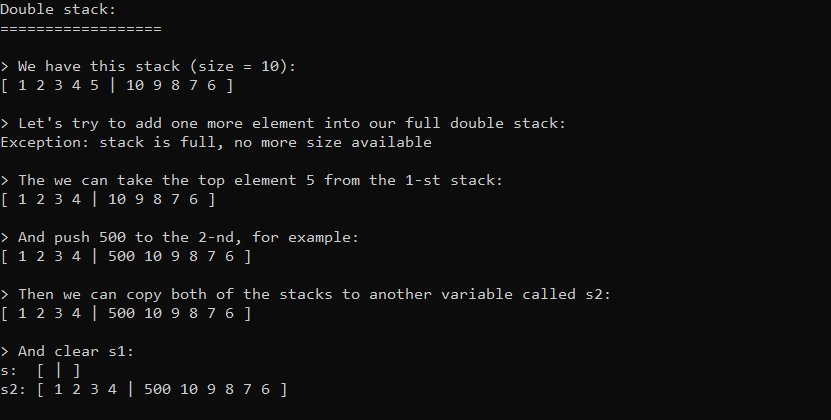
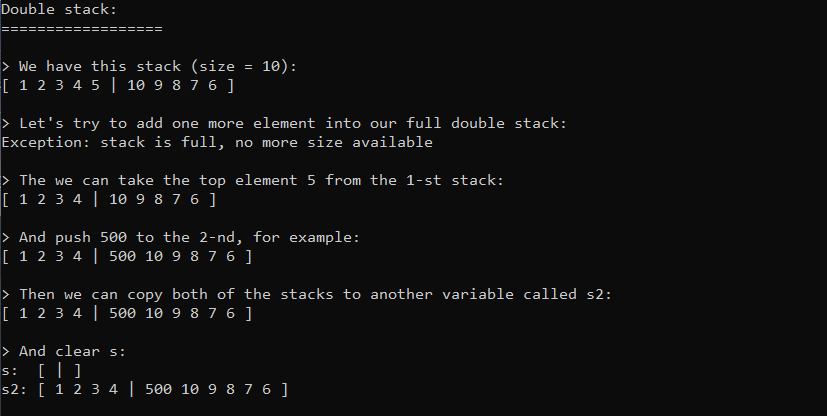
s1 changed to s

diff --git a/double-stack/Main.cpp b/double-stack/Main.cpp
@@ -42,7 +42,7 @@ int main()
 	TDoubleStack<int> s2 = s;
 	cout << s2 << "\n\n";
 
-	cout << "> And clear s1:\n";
+	cout << "> And clear s:\n";
 	s.Clear();
 
 	cout << "s:  " << s << "\n";
